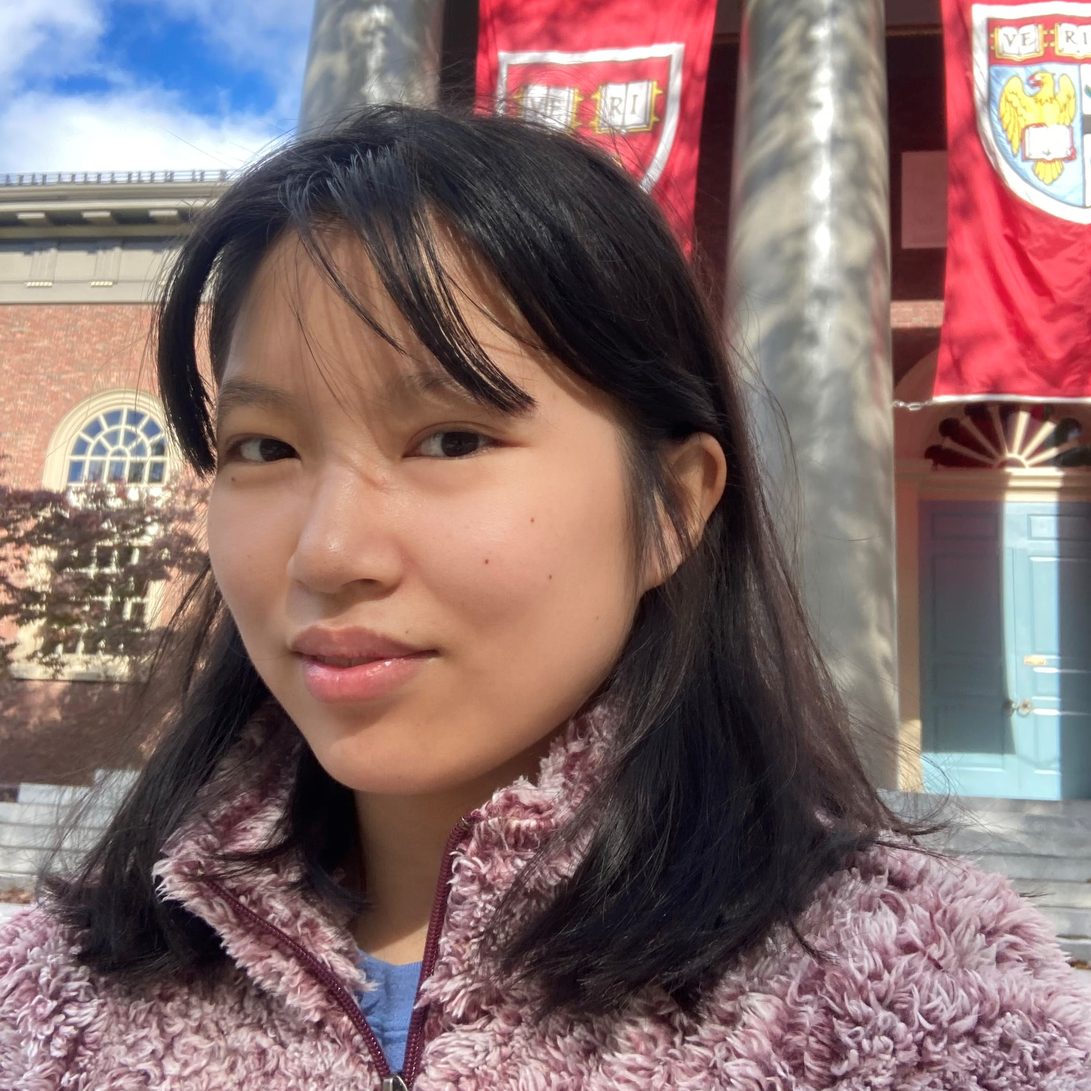
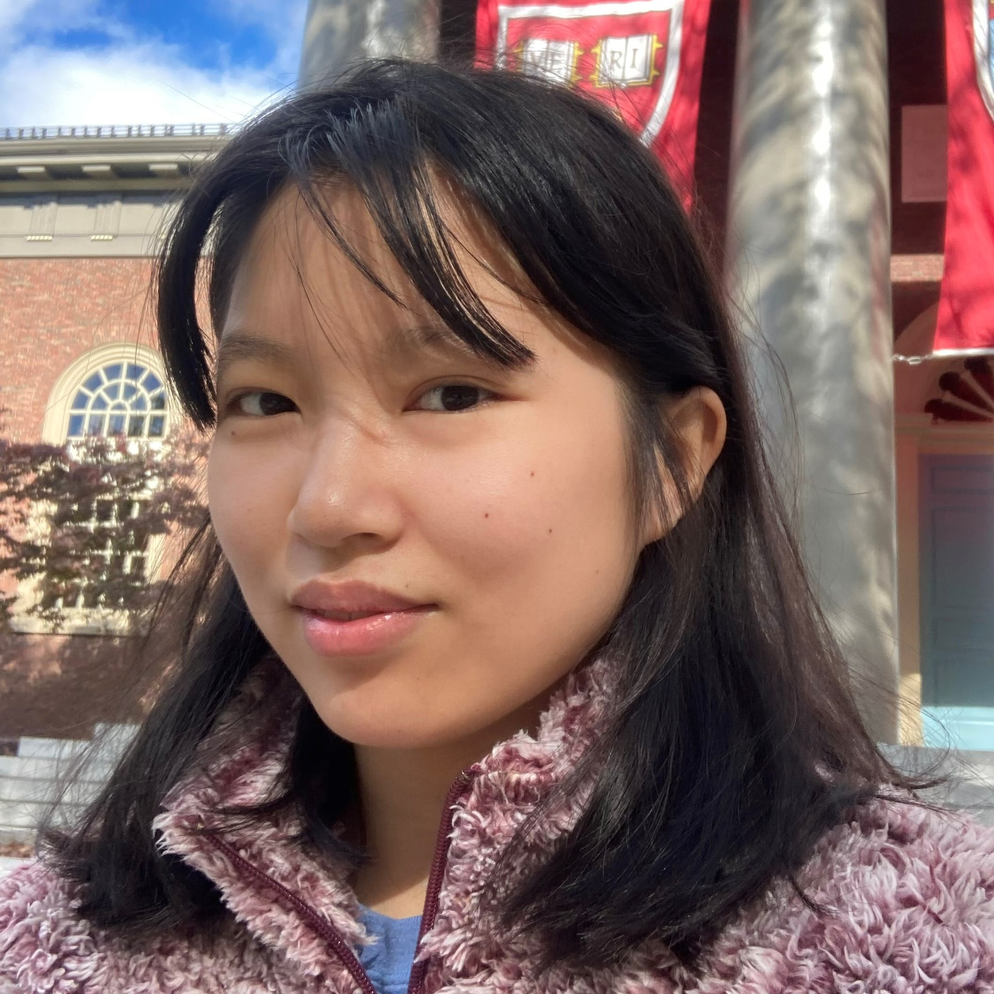
fixing images

diff --git a/about/index.html b/about/index.html
@@ -261,7 +261,7 @@
         <div class="person">
             <div class="person-badge">
                 <a href="https://www.linkedin.com/in/andrei-miguel-gulapa/" rel="nopoener" target="_blank">
-                    <img class="normal" src="/resources/about/ayu.jpg" alt="Andrei Gulapa Image">
+                    <img class="normal" src="/resources/about/agulapa.jpg" alt="Andrei Gulapa Image">
                     <!-- <img class="peculiar" src="/resources/about/default.svg" alt="team lead funny bitmoji"> -->
                 </a>
             </div>
